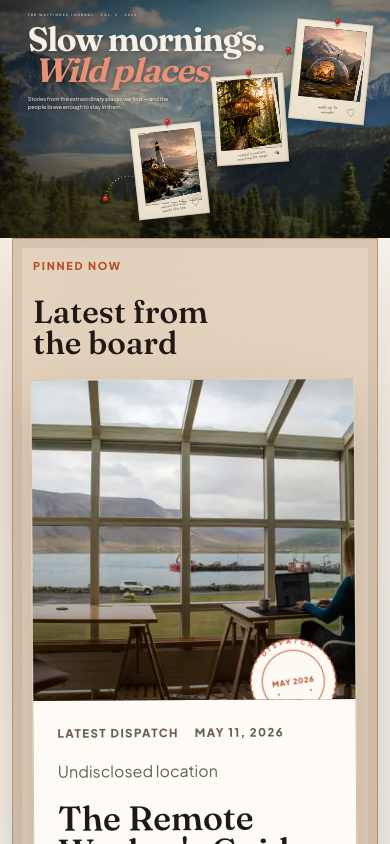
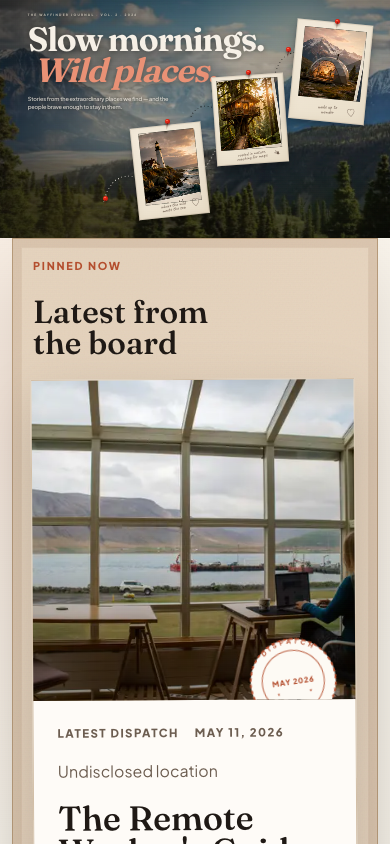
polish(journal): strengthen hero ken burns motion

diff --git a/src/app/(app)/globals.css b/src/app/(app)/globals.css
@@ -491,29 +491,30 @@ body:has(.journal-hero) nextjs-portal {
 .journal-hero__img {
   object-fit: cover;
   filter: saturate(1.08) brightness(1.05) contrast(1.01) sepia(0.06);
-  animation: journalKB 48s cubic-bezier(0.25, 0.1, 0.25, 1) infinite alternate;
+  animation: journalKB 30s cubic-bezier(0.37, 0, 0.63, 1) infinite alternate;
+  transform-origin: center center;
   will-change: transform;
 }
 
 @keyframes journalKB {
   0% {
-    transform: scale(1.06) translate3d(-1.5%, -1%, 0);
+    transform: scale(1.08) translate3d(-2.4%, -1.4%, 0);
   }
 
   25% {
-    transform: scale(1.1) translate3d(0.5%, 0.5%, 0);
+    transform: scale(1.13) translate3d(1.2%, 0.8%, 0);
   }
 
   50% {
-    transform: scale(1.04) translate3d(1%, -0.5%, 0);
+    transform: scale(1.1) translate3d(2.1%, -0.9%, 0);
   }
 
   75% {
-    transform: scale(1.08) translate3d(-0.5%, 0.8%, 0);
+    transform: scale(1.14) translate3d(-0.8%, 1.3%, 0);
   }
 
   100% {
-    transform: scale(1.07) translate3d(0.3%, -0.3%, 0);
+    transform: scale(1.09) translate3d(0.6%, -0.5%, 0);
   }
 }
 
